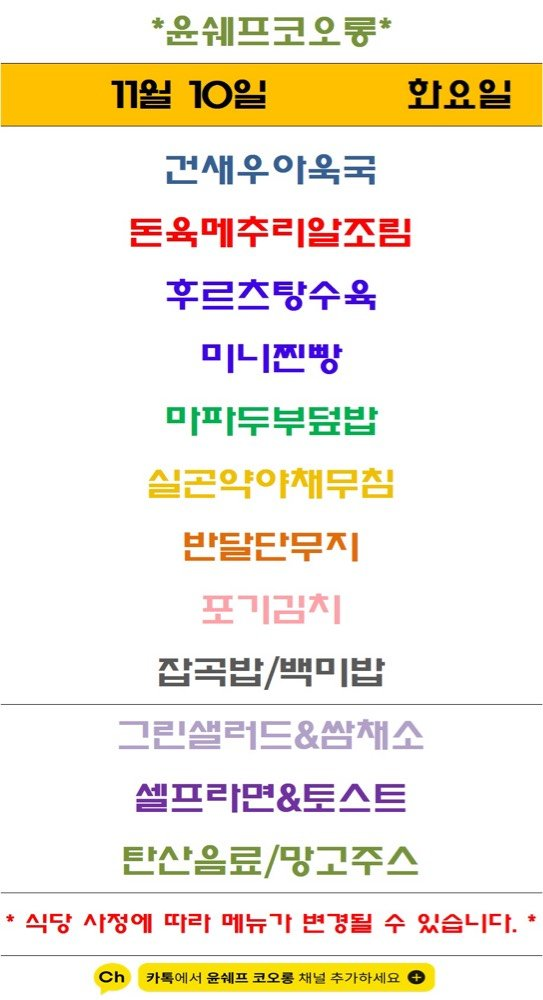
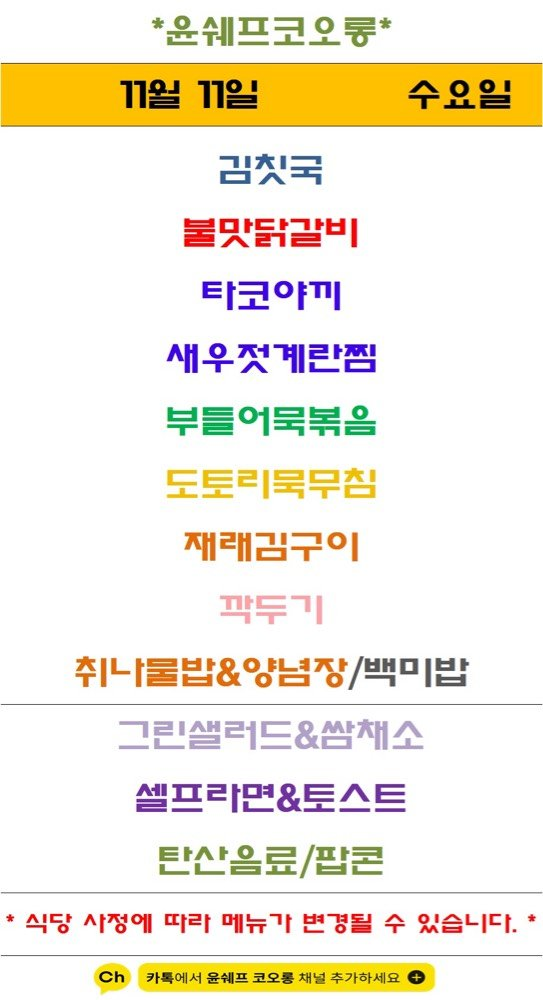
Update menu board assets

diff --git a/guro-menu/index.html b/guro-menu/index.html
@@ -32,7 +32,7 @@
   </header>
   <section class="meta">
     <div><small>기준 날짜</small><strong>2026년 11월 11일 수요일</strong></div>
-    <div><small>최종 갱신</small><strong>2026-11-11 09:18:30</strong></div>
+    <div><small>최종 갱신</small><strong>2026-11-11 09:33:12</strong></div>
     <div><small>등록 식당</small><strong>5개</strong></div>
   </section>
   <div class="notice">공개 카카오 채널의 메뉴 이미지를 자동 수집하고 OCR로 정리합니다. 텍스트에 오타가 있을 수 있으니 식단 이미지를 함께 확인해 주세요.</div>
@@ -104,7 +104,7 @@
         </div>
         <img class="menu-image" src="./images/yoon-chef-kolon.png" alt="윤쉐프 코오롱 식단 이미지" loading="lazy">
         <p class="message">최신 공개 식단 이미지의 텍스트입니다. 날짜는 원본 이미지를 확인해 주세요.</p>
-        <ul><li>11월 102 한요일</li><li>면새우아욱국</li><li>돈육메주리알조림</li><li>반달단무지</li><li>잡곡밥/백미밥</li><li>그린샐러드&amp;쌈채소</li><li>셀프라면&amp;토스트</li><li>탄산음료/망고주스</li></ul>
+        <ul><li>불맛닭갈비</li><li>타코야끼</li><li>부들어묵볶음</li><li>도토리묵무침</li><li>재래리구이</li><li>팍두기</li><li>취나물밥&amp;양념장/백미밥</li><li>그린샐러드&amp;쌈채소</li><li>셀프라면&amp;토스트</li><li>탄산음료/팝콘</li></ul>
       </article>
   </section>
   <section class="seo" aria-label="검색 정보">한신IT타워 구내식당 자연푸드 구내식당 더이츠푸드 벽산더이룸 윤쉐프 코오롱 한신IT타워 벽산디지털밸리7차 대륭포스트타워1차 벽산디지털밸리1차 코오롱싸이언스밸리1차 서울 구로구 디지털로 272 한신IT타워 지하1층 서울 구로구 디지털로33길 50 벽산디지털밸리7차 지하1층 서울 구로구 디지털로 288 대륭포스트타워1차 지하1층 서울 구로구 디지털로27길 24 벽산디지털밸리1차 지하1층 서울 구로구 디지털로34길 43 코오롱싸이언스밸리1차 지하1층</section>

diff --git a/menu-today/index.html b/menu-today/index.html
@@ -209,7 +209,7 @@
 
     <section class="meta-bar">
       <div class="meta-card"><div class="meta-label">기준 날짜</div><div class="meta-value">2026년 11월 11일 수요일</div></div>
-      <div class="meta-card"><div class="meta-label">최종 가져온 시간</div><div class="meta-value">2026-11-11 09:18:17</div></div>
+      <div class="meta-card"><div class="meta-label">최종 가져온 시간</div><div class="meta-value">2026-11-11 09:33:00</div></div>
       <div class="meta-card"><div class="meta-label">확인 완료</div><div class="meta-value">9개 식당</div></div>
       <div class="meta-card"><div class="meta-label">준비중</div><div class="meta-value">3개 채널</div></div>
     </section>
